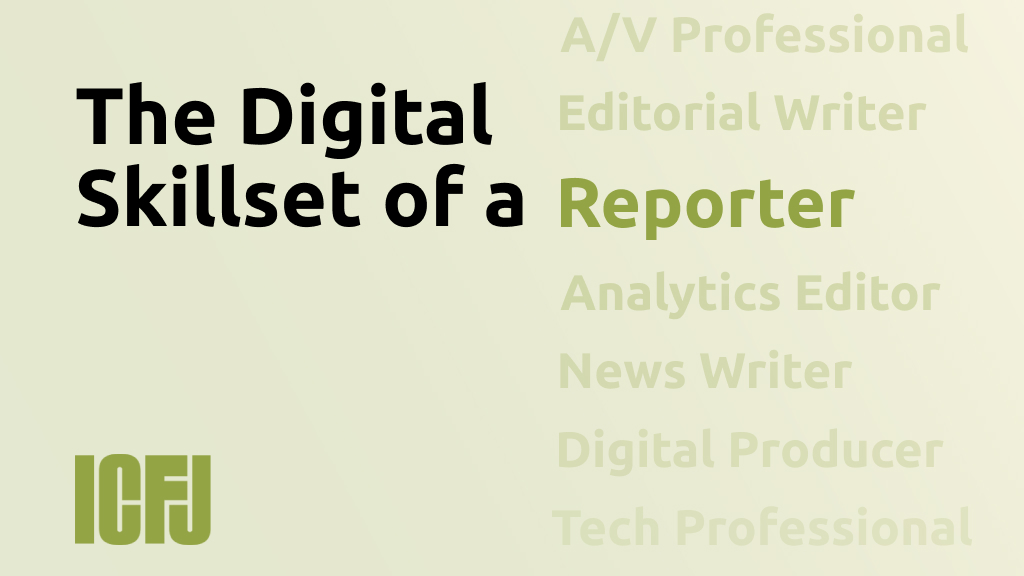
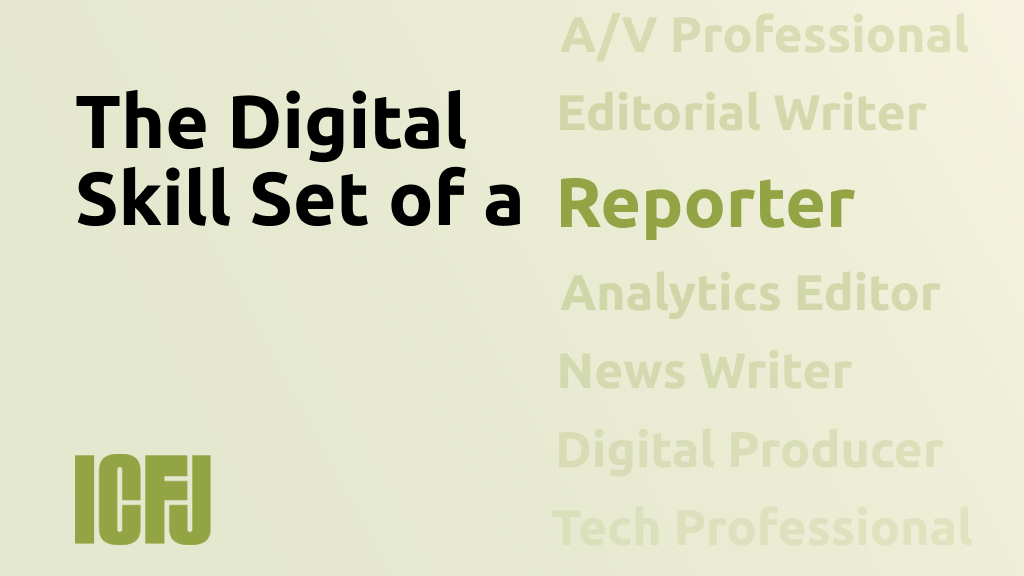
here

Changed region(s): [[0.0625, 0.125, 0.5312, 0.4062]]

diff --git a/index.html b/index.html
@@ -1,16 +1,16 @@
 <!doctype html>
-<html lang='en' data-version='1520356190966'>
+<html lang='en' data-version='1520358625491'>
 
 <head>
 
-	<title>The Digital Skillset of a Reporter</title>
+	<title>The Digital Skill Set of a Reporter</title>
 	<meta charset='utf-8'>
 	<meta name='viewport' content='width=device-width, initial-scale=1'>
 	<meta http-equiv='X-UA-Compatible' content='IE=edge,chrome=1'>
 	<meta name='description' content='Investigating how 2,055 newsroom employees work in the digital age.' />
 	<meta name='news_keywords' content='ICFJ, International Center for Journalists, newsroom, newsroom survey, digital survey' />
 	
-	<meta property='og:title' content='The Digital Skillset of a Reporter' />
+	<meta property='og:title' content='The Digital Skill Set of a Reporter' />
 	<meta property='og:site_name' content='International Center for Journalists' />
 	<meta property='og:url' content='https://googletrends.github.io/icfj' />
 	<meta property='og:description' content='Investigating how 2,055 newsroom employees work in the digital age.' />
@@ -25,7 +25,7 @@
 	<meta name='twitter:card' content='summary_large_image' />
 	<meta name='twitter:site' content='https://www.icfj.org/' />
 	<meta name='twitter:creator' content='@ICFJ' />
-	<meta name='twitter:title' content='The Digital Skillset of a Reporter' />
+	<meta name='twitter:title' content='The Digital Skill Set of a Reporter' />
 	<meta name='twitter:description' content='Investigating how 2,055 newsroom employees work in the digital age.' />
 	<meta name='twitter:image:src' content='https://googletrends.github.io/icfj/assets/social/social-twitter.jpg' />
 	
@@ -388,7 +388,7 @@
 
 
 	<script src='https://googletrends.github.io/icfj/assets/scripts/d3.v4.10.2+jetpack.min.js'></script>
-	<script src='bundle.js?version=1520356190966' async></script>
+	<script src='bundle.js?version=1520358625491' async></script>
 </body>
 
 </html>
